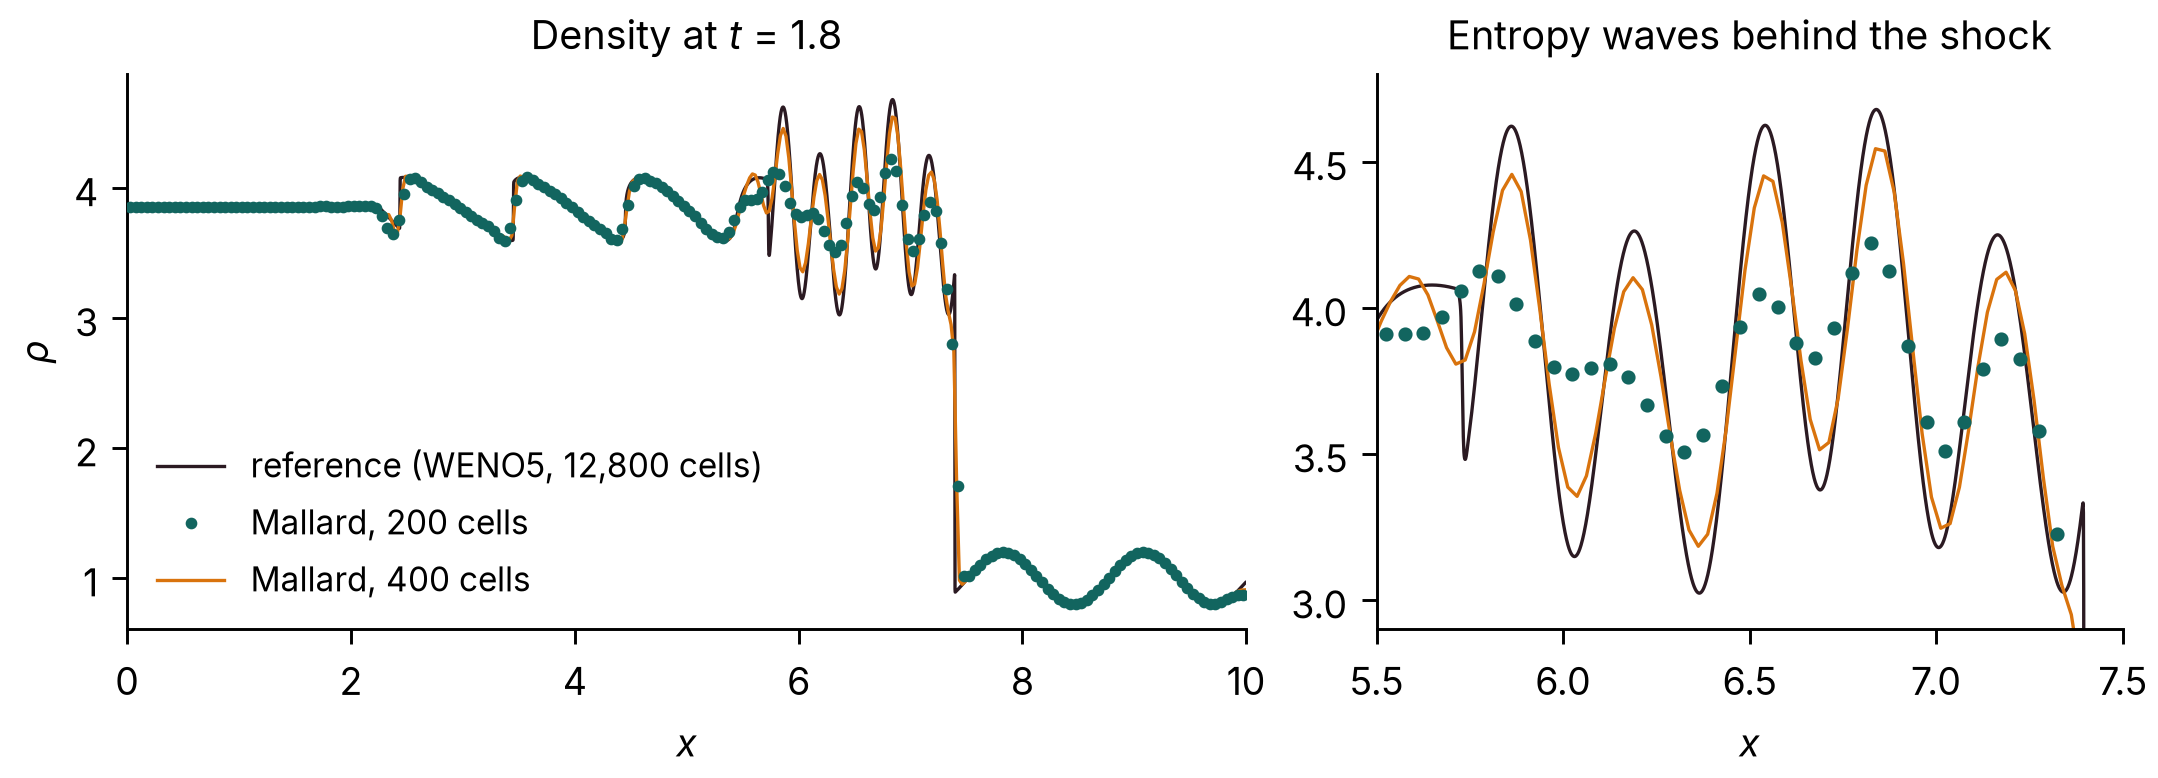
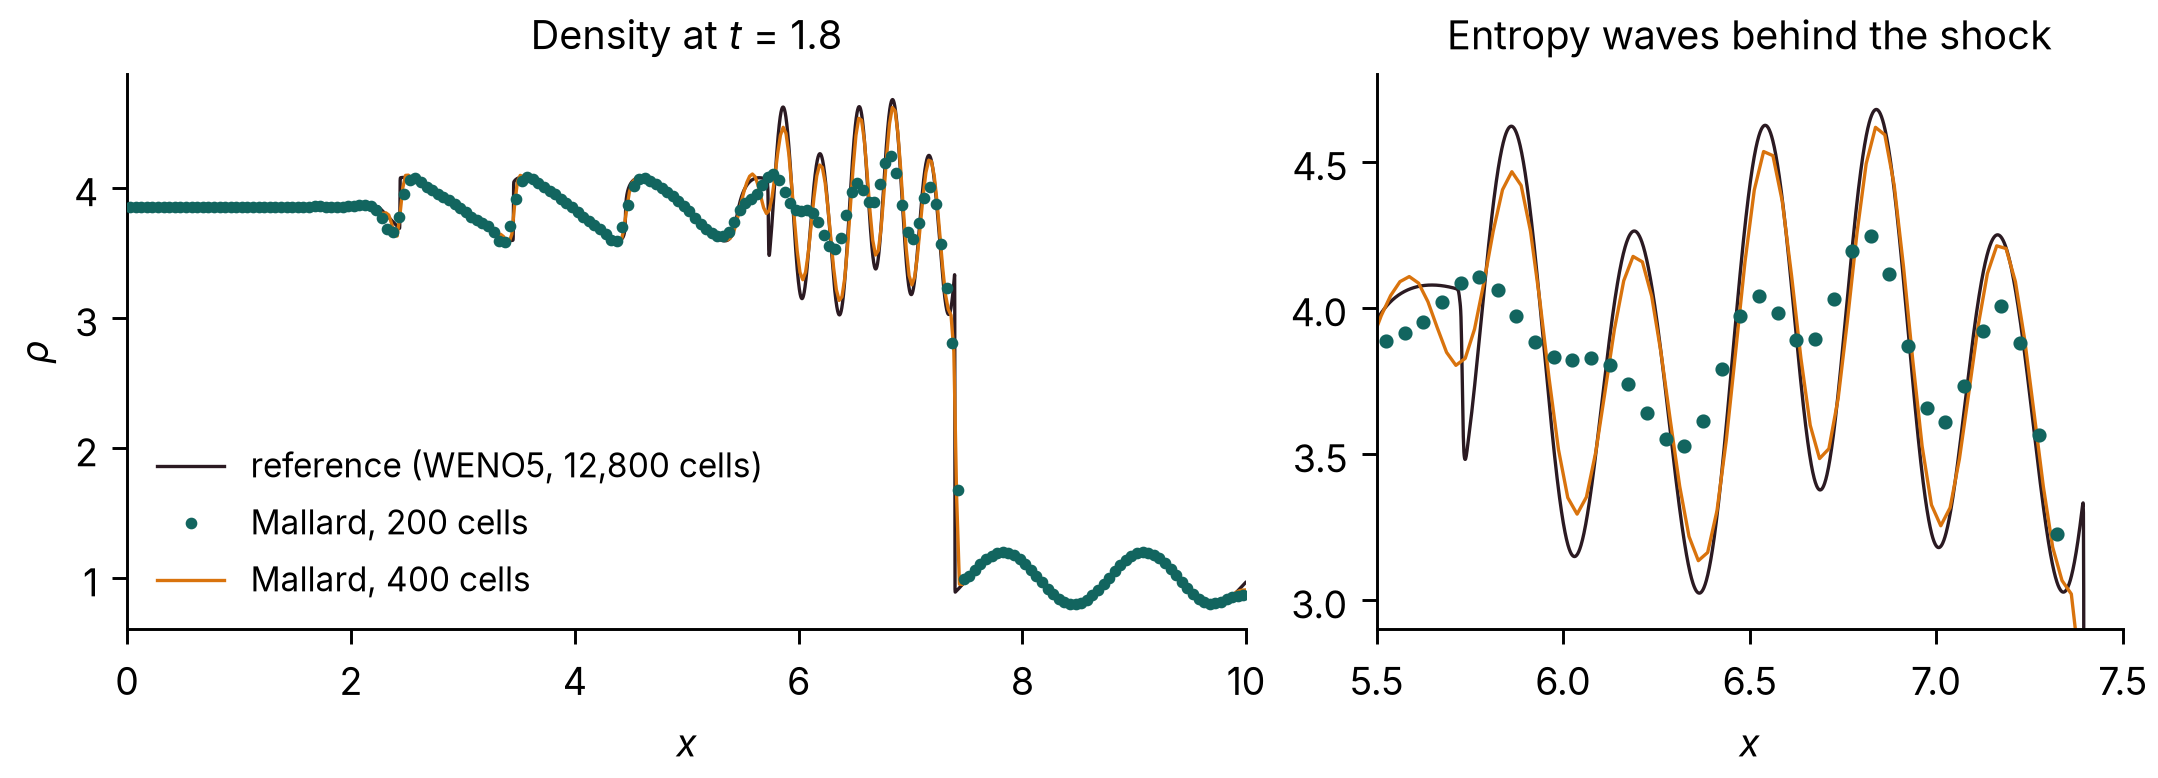
Mallard 0.4.0: Sod and Shu-Osher rerun, A100 benchmark, home and gallery updates

diff --git a/content/validation.md b/content/validation.md
@@ -7,12 +7,12 @@ description: Mallard against exact solutions, theory and reference data - shock 
 
 # Validation
 
-Each result on this page comes from a run of Mallard 0.3.0 (double precision, default settings, including the low-Mach correction of the convective flux), unless a section says otherwise, with the inputs described, compared with an exact solution, theory, or published reference data. Most cases start from an input in Mallard's [examples](docs/examples.md); the scripts that ran every case and drew every figure are in the [website repository](https://github.com/MatthewBonanni/mallard-website/tree/main/validation). Mallard's test suite checks many of the same properties at smaller scale on every change.
+Each result on this page comes from a run of Mallard 0.4.0 (double precision, default settings, including the low-Mach correction of the convective flux), unless a section says otherwise, with the inputs described, compared with an exact solution, theory, or published reference data. Most cases start from an input in Mallard's [examples](docs/examples.md); the scripts that ran every case and drew every figure are in the [website repository](https://github.com/MatthewBonanni/mallard-website/tree/main/validation). Mallard's test suite checks many of the same properties at smaller scale on every change.
 
 | Case | Quantity | Mallard | Reference |
 |---|---|---|---|
-| [Sod shock tube](#sod-shock-tube) | L<sub>1</sub> density error, 200 cells | 2.3 × 10<sup>−3</sup> | exact solution |
-| [Shu–Osher problem](#shu-osher-problem) | L<sub>1</sub> density difference, 400 / 800 cells | 0.26 / 0.12 | WENO5 at 12,800 cells; WENO5 at the same resolution: 0.29 / 0.10 |
+| [Sod shock tube](#sod-shock-tube) | L<sub>1</sub> density error, 200 cells | 2.4 × 10<sup>−3</sup> | exact solution |
+| [Shu–Osher problem](#shu-osher-problem) | L<sub>1</sub> density difference, 400 / 800 cells | 0.20 / 0.11 | WENO5 at 12,800 cells; WENO5 at the same resolution: 0.29 / 0.10 |
 | [Oblique shock](#oblique-shock) | shock angle, pressure ratio | 42.82°, 1.4984 | 42.82°, 1.4984 (theory) |
 | [Isentropic vortex](#design-order-convergence) | order of accuracy, TENO-E orders 3–6 | 2.99, 4.02, 4.98, 6.03 (quads); 3.00, 4.01, 4.99, 5.99 (triangles) | 3, 4, 5, 6 |
 | [Vortex across a periodic seam](#periodic-seams) | order of accuracy, TENO-E orders 3–6 | 2.91, 4.08, 4.87, 6.15 (quads); 2.98, 4.03, 4.94, 6.05 (triangles) | 3, 4, 5, 6 |
@@ -34,16 +34,18 @@ The Riemann problem of Sod (1978): (ρ, u, p) = (1, 0, 1) for x < 0.5 and (0.125
 <figcaption>Sod shock tube at t = 0.2 on 200 cells. Fifth-order TENO-E (dots) and MUSCL with the Venkatakrishnan limiter (line) against the exact solution.</figcaption>
 </figure>
 
-L<sub>1</sub> error of the cell-averaged density, ∫|ρ − ρ<sub>exact</sub>| dx, with the exact solution averaged over each cell:
+L<sub>1</sub> error of the cell-averaged density, ∫|ρ − ρ<sub>exact</sub>| dx, with the exact solution averaged over each cell, over all cells of the strip:
 
 | Cells | TENO-E 5 | rate | MUSCL | rate |
 |---:|---:|---:|---:|---:|
-| 100 | 3.92 × 10<sup>−3</sup> |  | 4.46 × 10<sup>−3</sup> |  |
-| 200 | 2.28 × 10<sup>−3</sup> | 0.78 | 2.65 × 10<sup>−3</sup> | 0.75 |
-| 400 | 1.21 × 10<sup>−3</sup> | 0.92 | 1.43 × 10<sup>−3</sup> | 0.89 |
-| 800 | 6.01 × 10<sup>−4</sup> | 1.01 | 7.65 × 10<sup>−4</sup> | 0.90 |
+| 100 | 4.16 × 10<sup>−3</sup> |  | 4.46 × 10<sup>−3</sup> |  |
+| 200 | 2.41 × 10<sup>−3</sup> | 0.79 | 2.65 × 10<sup>−3</sup> | 0.75 |
+| 400 | 1.27 × 10<sup>−3</sup> | 0.93 | 1.43 × 10<sup>−3</sup> | 0.89 |
+| 800 | 7.24 × 10<sup>−4</sup> | 0.81 | 7.65 × 10<sup>−4</sup> | 0.90 |
 
-Both schemes converge at close to first order, the expected rate for a solution with a shock and a contact discontinuity; TENO-E has 12–21% lower error than MUSCL. The shock spans two cells and the contact discontinuity about five.
+Both schemes converge at close to first order, the expected rate for a solution with a shock and a contact discontinuity; TENO-E has 5–12% lower error than MUSCL. The shock spans two cells and the contact discontinuity about five.
+
+Mallard 0.4.0 changed TENO-E next to walls (complete stencils and a conditioning bound for the central stencil), so that the four rows of the strip now stay identical up to 400 cells; with 0.3.0 the rows next to the slip walls differed from the inner two by up to 0.014 in density, and the 0.3.0 errors on this page (3.92, 2.28, 1.21 and 0.60 × 10<sup>−3</sup>) were those of the bottom row alone. On 800 cells the rows still differ by up to 0.005 behind the shock with HLLC, and by 0.001 with HLL or RHLL: the grid-aligned shock instability discussed under [Shu–Osher](#shu-osher-problem). MUSCL results are unchanged from 0.3.0.
 
 ## Shu–Osher problem {#shu-osher-problem}
 
@@ -58,12 +60,12 @@ L<sub>1</sub> density difference from the reference, ∫|ρ − ρ<sub>ref</sub>
 
 | Cells | Mallard, RHLL | Mallard, HLLC | 1D WENO5, same cells |
 |---:|---:|---:|---:|
-| 200 | 0.64 | 0.68 | 0.75 |
-| 400 | 0.26 | 0.57 | 0.29 |
-| 800 | 0.12 | 0.66 | 0.10 |
-| 1600 | 0.082 | 0.71 | 0.048 |
+| 200 | 0.66 | 0.65 | 0.75 |
+| 400 | 0.20 | 0.20 | 0.29 |
+| 800 | 0.11 | 0.49 | 0.10 |
+| 1600 | 0.059 | 0.78 | 0.048 |
 
-With the rotated-hybrid RHLL flux, Mallard converges to the reference, more accurate than the one-dimensional WENO5 scheme on 200 and 400 cells and within 15% of it on 800. With HLLC it does not converge: behind the Mach 3 shock, which moves along the grid lines of the strip, the flow develops transverse disturbances (on 1600 × 4 cells the density differs by up to 1.2 between rows of a problem that should stay one-dimensional) that destroy the entropy waves. This is the grid-aligned shock instability that Quirk (1994) described for Roe's scheme and to which HLLC is also prone; use `RHLL` for strong shocks aligned with quadrilateral grids. The example has used RHLL since Mallard 0.3.0 (0.2.0's used HLLC). With RHLL the rows still differ by up to 0.25 in the entropy-wave region, which accounts for part of its remaining difference from the one-dimensional reference at 1600 cells.
+With the rotated-hybrid RHLL flux, Mallard converges to the reference, more accurate than the one-dimensional WENO5 scheme on 200 and 400 cells and within 7% of it on 800 (0.4.0 lowered the error on 400 and 1600 cells by 22% and 28% from 0.3.0's 0.26 and 0.082). With HLLC it does not converge beyond 400 cells: behind the Mach 3 shock, which moves along the grid lines of the strip, the flow develops transverse disturbances (on 1600 × 4 cells the density differs by up to 1.1 between rows of a problem that should stay one-dimensional) that destroy the entropy waves. This is the grid-aligned shock instability that Quirk (1994) described for Roe's scheme and to which HLLC is also prone; use `RHLL` for strong shocks aligned with quadrilateral grids. The example has used RHLL since Mallard 0.3.0 (0.2.0's used HLLC). With RHLL the rows still differ by up to 0.26 on 800 cells and 0.16 on 1600 in the entropy-wave region, which accounts for part of its remaining difference from the one-dimensional reference at 1600 cells.
 
 <figure class="mallard-figure" markdown>
 ![Entropy waves of the Shu-Osher problem on 1600 cells with HLLC and RHLL fluxes](validation/shu_osher_flux.png){ loading=lazy width=1258 height=714 style="max-width: 32rem" }

diff --git a/content/gallery.md b/content/gallery.md
@@ -34,17 +34,17 @@ Every case here is one of Mallard's [examples](docs/examples.md). Quantitative c
 
 <figure markdown>
 <video data-autoplay controls loop muted playsinline preload="none" width="1920" height="1080" poster="../media/sphere_poster.jpg" aria-label="Mach number and schlieren of Mach 3 flow over a sphere, with the bow-shock standoff distance against Billig's correlation"><source src="../media/sphere.mp4" type="video/mp4"></video>
-<figcaption markdown>**Mach 3 flow over a sphere, in 3D.** The bow shock forms from an impulsive start and settles by t u<sub>∞</sub>/D ≈ 1.2 at a standoff of 0.226 R, against 0.205 R from Billig's correlation; the stagnation pressure, 12.0 p<sub>∞</sub>, matches the Rayleigh pitot value 12.06. 800,000 tetrahedra in a quarter domain with two symmetry planes, fifth-order TENO-E with bound-preserving scaling, HLL flux, on 4 GPUs; the `sphere_mach3` example, added after release 0.3.0. [Validation details](validation.md#mach-3-sphere).</figcaption>
+<figcaption markdown>**Mach 3 flow over a sphere, in 3D.** The bow shock forms from an impulsive start and settles by t u<sub>∞</sub>/D ≈ 1.2 at a standoff of 0.226 R, against 0.205 R from Billig's correlation; the stagnation pressure, 12.0 p<sub>∞</sub>, matches the Rayleigh pitot value 12.06. 800,000 tetrahedra in a quarter domain with two symmetry planes, fifth-order TENO-E with bound-preserving scaling, HLL flux, on 4 GPUs; the `sphere_mach3` example (new in Mallard 0.4.0). [Validation details](validation.md#mach-3-sphere).</figcaption>
 </figure>
 
 <figure markdown>
 <video data-autoplay controls loop muted playsinline preload="none" width="1920" height="1080" poster="../media/sphere_re300_poster.jpg" aria-label="Q-criterion isosurfaces of the hairpin vortices shed by a sphere at Re = 300, colored by streamwise velocity, with drag and lift histories"><source src="../media/sphere_re300.mp4" type="video/mp4"></video>
-<figcaption markdown>**Sphere at Re = 300, in 3D.** Periodic shedding of hairpin vortices from a wake with one plane of symmetry: Q-criterion isosurfaces colored by streamwise velocity, and the drag and lift coefficients. Navier–Stokes at Mach 0.2 on 850,000 prisms and tetrahedra, MUSCL, HLLC, on 4 GPUs; the `sphere_re300` example, on Mallard's `main` branch for the next release. [Validation details](validation.md#sphere-re300).</figcaption>
+<figcaption markdown>**Sphere at Re = 300, in 3D.** Periodic shedding of hairpin vortices from a wake with one plane of symmetry: Q-criterion isosurfaces colored by streamwise velocity, and the drag and lift coefficients. Navier–Stokes at Mach 0.2 on 850,000 prisms and tetrahedra, MUSCL, HLLC, on 4 GPUs; the `sphere_re300` example (new in Mallard 0.4.0). [Validation details](validation.md#sphere-re300).</figcaption>
 </figure>
 
 <figure markdown>
 <video data-autoplay controls loop muted playsinline preload="none" width="1920" height="1080" poster="../media/sedov_poster.jpg" aria-label="Density of the Sedov-Taylor blast wave on three symmetry planes, with the shock radius and density profile against the exact similarity solution"><source src="../media/sedov.mp4" type="video/mp4"></video>
-<figcaption markdown>**Sedov–Taylor blast wave, in 3D.** A point explosion: density on the three symmetry planes of the computed octant, the shock radius against the exact similarity solution, and the radial density profile. 128³ hexahedra, fifth-order TENO-E with bound-preserving scaling, HLLC; the `sedov_3d` example, added after release 0.3.0. [Validation details](validation.md#sedov-taylor).</figcaption>
+<figcaption markdown>**Sedov–Taylor blast wave, in 3D.** A point explosion: density on the three symmetry planes of the computed octant, the shock radius against the exact similarity solution, and the radial density profile. 128³ hexahedra, fifth-order TENO-E with bound-preserving scaling, HLLC; the `sedov_3d` example (new in Mallard 0.4.0). [Validation details](validation.md#sedov-taylor).</figcaption>
 </figure>
 
 <figure markdown>

diff --git a/content/docs/performance.md b/content/docs/performance.md
@@ -5,18 +5,18 @@ description: Measured throughput of Mallard on a CPU and an NVIDIA A100 GPU.
 
 # Performance
 
-Throughput of Mallard 0.3.0 on the 2D Riemann problem (configuration 3, the [`riemann_2d_quads`](examples.md) example) on 1000 × 1000 quadrilaterals (the example's input with `Nx = Ny = 1000`, `n_steps = 300` in place of `t_stop`, and no `[[write_data]]`): Euler equations, HLLC flux, SSPRK3, double precision. The time per step and cell is the solver's own report over its last 100 steps (best of two runs on the CPU); it excludes setup (mesh, TENO stencil precomputation) and counts one SSPRK3 step, which evaluates the right-hand side three times.
+Throughput of Mallard on the 2D Riemann problem (configuration 3, the [`riemann_2d_quads`](examples.md) example) on 1000 × 1000 quadrilaterals (the example's input with `Nx = Ny = 1000`, `n_steps = 300` in place of `t_stop`, and no `[[write_data]]`): Euler equations, HLLC flux, SSPRK3, double precision. The time per step and cell is the solver's own report over its last 100 steps (best of two runs on the CPU); it excludes setup (mesh, TENO stencil precomputation) and counts one SSPRK3 step, which evaluates the right-hand side three times.
 
-| Reconstruction | CPU, 6 threads: ns per step and cell | A100: ns per step and cell | A100: million cell-steps per second | A100 / CPU |
+| Reconstruction | CPU, 6 threads: ns per step and cell (0.3.0) | A100: ns per step and cell (0.4.0) | A100: million cell-steps per second | A100 / CPU |
 |---|---:|---:|---:|---:|
 | MUSCL (Venkatakrishnan) | 91 | 4.3 | 230 | 21× |
-| TENO-E, order 3 | 125 | 7.3 | 137 | 17× |
-| TENO-E, order 5 | 593 | 20.1 | 50 | 30× |
+| TENO-E, order 3 | 125 | 7.2 | 139 | 17× |
+| TENO-E, order 5 | 593 | 19.4 | 51 | 31× |
 
-CPU: 6 of the 14 cores of an Apple M4 Pro, Kokkos `Threads` backend. GPU: one NVIDIA A100, Kokkos CUDA backend (`Kokkos_ARCH_AMPERE80`) with a serial host backend, which slows the setup but not the time steps. Both builds are Release builds of the same source. The machines were shared with other work, the CPU heavily (repeated CPU runs varied by up to 15%), so these numbers are indicative, not best case. With Mallard 0.2.0 the same A100 runs took 21.7 ns per step and cell for TENO-E 5; the CPU runs, on a less loaded machine, 553.
+CPU: 6 of the 14 cores of an Apple M4 Pro, Kokkos `Threads` backend. GPU: one NVIDIA A100, Kokkos CUDA backend (`Kokkos_ARCH_AMPERE80`) with a serial host backend, which slows the setup but not the time steps. Both are Release builds; the GPU runs use Mallard 0.4.0, the CPU runs Mallard 0.3.0 (the CPU was too heavily shared to repeat them for 0.4.0). The machines were shared with other work, the CPU heavily (repeated CPU runs varied by up to 15%), so these numbers are indicative, not best case. On the same A100, TENO-E 5 took 21.7 ns per step and cell with Mallard 0.2.0 and 20.1 with 0.3.0 (MUSCL 4.3 and TENO-E 3 7.3 with 0.3.0); the CPU runs with 0.2.0, on a less loaded machine, 553.
 
-At these rates the A100 advances the million-cell TENO-E 5 case by one time step in about 20 ms.
+At these rates the A100 advances the million-cell TENO-E 5 case by one time step in about 19 ms.
 
-Fifth-order TENO-E costs 4.7 times as much per step as third order on the CPU and 2.8 times on the A100; its central stencil has 28 neighbors of each cell, against 10 for third order.
+Fifth-order TENO-E costs 4.7 times as much per step as third order on the CPU and 2.7 times on the A100; its central stencil has 28 neighbors of each cell, against 10 for third order.
 
 For runs on several GPUs, see [multi-GPU scaling](parallel.md#multi-gpu-scaling).

diff --git a/content/index.md b/content/index.md
@@ -20,7 +20,7 @@ hero_caption: "Fifth-order TENO-E: double Mach reflection (1.84 million triangle
 
     ---
 
-    Triangles, quadrilaterals and mixed meshes, generated or read from Gmsh 2.2 and 4.1 files. Boundary zones can be split by expressions.
+    Triangles and quadrilaterals in 2D; tetrahedra, hexahedra, prisms and pyramids in 3D. Generated, or read from Gmsh 2.2 and 4.1 or HDF5 files; periodic boundaries; boundary zones can be split by expressions.
 
 -   :material-chart-bell-curve:{ .lg .middle } __High-order reconstruction__
 
@@ -40,6 +40,12 @@ hero_caption: "Fifth-order TENO-E: double Mach reflection (1.84 million triangle
 
     Viscous fluxes with constant or Sutherland viscosity; slip, no-slip, moving, isothermal and heat-flux walls; wall force monitors.
 
+-   :material-fire:{ .lg .middle } __Reacting flow__
+
+    ---
+
+    Thermally perfect gas mixtures and finite-rate chemistry from Cantera YAML mechanisms, with a stiff Rosenbrock (RODAS) integrator, Strang splitting, and the `MallardReactor` 0D tool.
+
 -   :material-border-outside:{ .lg .middle } __Boundary conditions__
 
     ---
@@ -50,7 +56,7 @@ hero_caption: "Fifth-order TENO-E: double Mach reflection (1.84 million triangle
 
     ---
 
-    Kokkos Serial, Threads, OpenMP and CUDA backends from one code base, with SSPRK3 and RK4 time integration and restart files.
+    Kokkos Serial, Threads, OpenMP and CUDA backends from one code base, MPI across GPUs and nodes, double or single precision, SSPRK3 and RK4 time integration and restart files.
 
 </div>
 
@@ -78,7 +84,7 @@ Every number below comes from a Mallard run compared with an exact solution, the
 
 </div>
 
-The test suite (more than 200 tests) checks the Riemann solvers against an exact solver, design order on triangles and quadrilaterals, conservation, symmetry and free-stream preservation, shock tubes, an oblique shock and exact viscous solutions on every change.
+The test suite (more than 240 tests) checks the Riemann solvers against an exact solver, design order on triangles and quadrilaterals, conservation, symmetry and free-stream preservation, shock tubes, an oblique shock and exact viscous solutions on every change.
 
 ## Quick start
 
